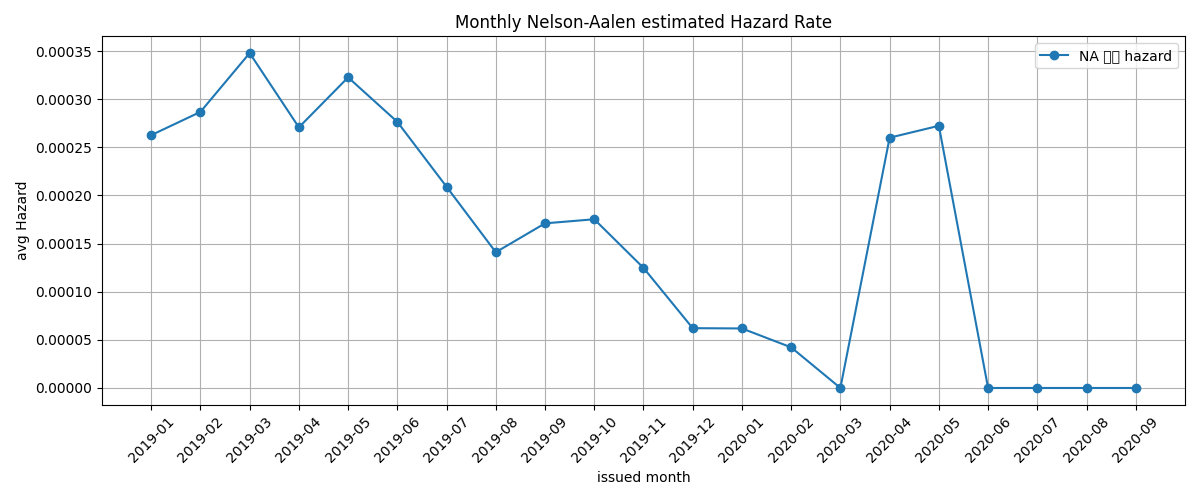
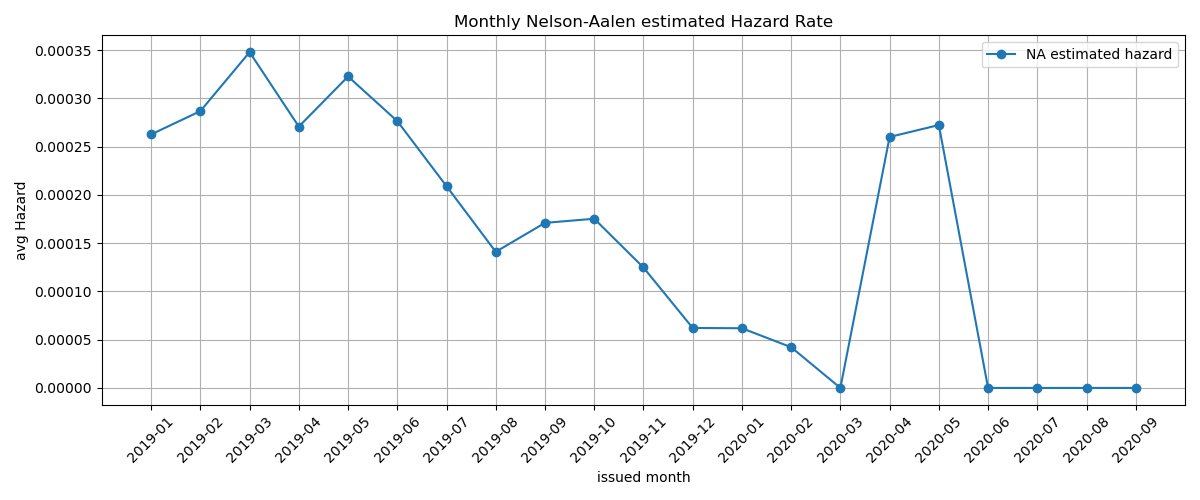
all features SHAP -> top 5 features SHAP

diff --git a/src/models/train_.py b/src/models/train_.py
@@ -1,17 +1,18 @@
-from lifelines import KaplanMeierFitter
 import numpy as np
 import pandas as pd
 from lifelines import NelsonAalenFitter
 import warnings
 import pandas as pd
 from sksurv.ensemble import RandomSurvivalForest
-from sksurv.metrics import concordance_index_censored
 from sksurv.util import Surv
-
+from collections import Counter
+from sklearn.utils import resample
+import shap
+from sklearn.model_selection import train_test_split
 warnings.filterwarnings("ignore", category=UserWarning)
 
-DATA_PATH = "../../data/processed/lendingclub_features_for_rf.parquet"
-FEATURE_PATH = "../../data/processed/features_final_list_rf.csv"
+DATA_PATH = "data/processed/lendingclub_features_for_rf.parquet"
+FEATURE_PATH = "data/processed/features_final_list_rf.csv"
 
 # --------------------------------------------------
 # 1) 데이터 로드 & 필터
@@ -142,32 +143,29 @@ print("✅ NA 기반 월별 hazard 추정 완료")
 # --------------------------------------------------
 # 5) Random Survival Forest 모델 학습 & 평가 (covid_exposure 그룹별)
 # --------------------------------------------------
-
 print("▶ 훈련 가능 데이터 현황:")
 print(f"- 총 행 수: {len(df)}")
 print(f"- issue_d ≥ 2019-05-01: {len(df[df['issue_d'] >= '2015-01-01'])}")
-print(f"- covid_exposure=0: {len(df[df['covid_exposure']==0])}")
-
-# Removed the original loop over "early" and "late" subgroups for model training and SHAP calculation
-
-from sklearn.utils import resample
-import shap
-
 print("\n🔍 전체 데이터 기반 SHAP 분석")
 print(f"X shape: {X.shape}, df[['T', 'E']] shape: {df[['T', 'E']].shape}")
+
 shap_runs = []
-from collections import Counter
+top_idx_list = []
+
 for i in range(10):  # bootstrap iterations
     X_bs, y_bs = resample(X, df[["T", "E"]], replace=True, random_state=42 + i)
     y_surv_bs = Surv.from_arrays(event=y_bs["E"].astype(bool), time=y_bs["T"])
-    rsf = RandomSurvivalForest(n_estimators=100, min_samples_split=10,
-                               min_samples_leaf=15, max_features="sqrt",
-                               n_jobs=-1, random_state=42 + i)
-    rsf.fit(X_bs, y_surv_bs)
+    rsf = RandomSurvivalForest(
+        n_estimators=100,
+        min_samples_split=10,
+        min_samples_leaf=15,
+        max_features="sqrt",
+        n_jobs=-1,
+        random_state=42 + i
+    )
+    rsf.fit(X_bs.values, y_surv_bs)
     print(f"✅ 부트스트랩 {i+1}/10 학습 완료")
     shap_runs.append(rsf.feature_importances_)
-    if i == 0:
-        top_idx_list = []
     top_idx = np.argsort(rsf.feature_importances_)[::-1][:5]
     top_idx_list.extend(top_idx)
 
@@ -175,20 +173,21 @@ top_5_idx = [item[0] for item in Counter(top_idx_list).most_common(5)]
 top_5_features = [features[i] for i in top_5_idx]
 print(f"🔝 전체 기준 Top 5 features:", top_5_features)
 
-rsf_final = RandomSurvivalForest(n_estimators=100, min_samples_split=10,
-                                 min_samples_leaf=15, max_features="sqrt",
-                                 n_jobs=-1, random_state=999)
 y_final = Surv.from_arrays(event=df["E"].astype(bool), time=df["T"])
-rsf_final.fit(X, y_final)
-print("✅ 최종 RSF 학습 완료")
+rsf_shap = RandomSurvivalForest(
+    n_estimators=30,
+    min_samples_split=10,
+    min_samples_leaf=15,
+    max_features="sqrt",
+    n_jobs=-1,
+    random_state=123
+)
+rsf_shap.fit(X[top_5_features].values, y_final)
+print("✅ 최종 SHAP용 RSF 학습 완료")
 
 
-    # Restrict X to top 5 features for SHAP computation
+# Restrict X to top 5 features for SHAP computation
 X_top5 = X[top_5_features].copy()
-
-# ▼▼▼ SHAP 계산 최적화를 위한 다운샘플링 (E 비율 유지) ▼▼▼
-from sklearn.model_selection import train_test_split
-
 X_top5["T"] = df["T"]
 X_top5["E"] = df["E"]
 
@@ -205,10 +204,9 @@ y_top5_sampled = Surv.from_arrays(
     time=X_top5_sampled["T"]
 )
 
-# Drop T, E from features for SHAP
 X_top5_sampled = X_top5_sampled.drop(columns=["T", "E"])
 
-explainer = shap.TreeExplainer(rsf_final)
+explainer = shap.TreeExplainer(rsf_shap)
 shap_values = explainer.shap_values(X_top5_sampled)
 print("✅ SHAP 계산 완료 (샘플 20,000건 기준)")
 
@@ -234,9 +232,9 @@ monthly_df = top_features_by_month["all"]
 plt.figure(figsize=(12, 6))
 for col in monthly_df.columns:
     sns.lineplot(data=monthly_df[col], label=col)
-plt.title(f"월별 SHAP 평균값 추이")
+plt.title(f"Monthly SHAP average")
 plt.xlabel("issue_month")
-plt.ylabel("평균 SHAP 값")
+plt.ylabel("Average SHAP value")
 plt.legend()
 plt.xticks(rotation=45)
 plt.tight_layout()
@@ -247,8 +245,8 @@ mean_abs = monthly_df.abs().sum()
 mean_abs = mean_abs / mean_abs.sum()  # Normalize to sum=1
 plt.figure(figsize=(6, 4))
 sns.barplot(x=mean_abs.values, y=mean_abs.index)
-plt.title(f"Top 5 변수 SHAP 비중")
-plt.xlabel("SHAP 비중")
-plt.ylabel("변수명")
+plt.title(f"Top 5 features SHAP importance")
+plt.xlabel("SHAP importance")
+plt.ylabel("feature")
 plt.tight_layout()
 plt.show()

diff --git a/src/data/generate_features_list.py b/src/data/generate_features_list.py
@@ -4,7 +4,7 @@ def main():
     # 전처리된 feature 파일 불러오기
     # df = pd.read_csv('../../data/processed/lendingclub_features_for_lightgbm.csv')
     # df = pd.read_csv('../../data/processed/lendingclub_features_for_linear.csv')
-    df = pd.read_parquet('../../data/processed/lendingclub_features_for_rf.parquet')
+    df = pd.read_parquet('data/processed/lendingclub_features_for_rf.parquet')
 
     # 제외할 컬럼 리스트
     exclude_cols = [
@@ -72,7 +72,7 @@ def main():
 
     # 저장
     features_df = pd.DataFrame({'feature': feature_list})
-    features_df.to_csv('../../data/processed/features_final_list_rf.csv', index=False)
+    features_df.to_csv('data/processed/features_final_list_rf.csv', index=False)
 
     print(f"✅ features_final_list_rf.csv 생성 완료! ({len(feature_list)}개 변수)")
 

diff --git a/src/data/build_features_lightgbm.py b/src/data/build_features_lightgbm.py
@@ -4,7 +4,7 @@ import numpy as np
 
 def main():
     # 1) interim 데이터 불러오기
-    df = pd.read_csv('../../data/interim/lendingclub_survival.csv')
+    df = pd.read_csv('data/interim/lendingclub_survival.csv')
 
     # 2) 숫자형으로 변환해야 하는 컬럼 먼저 처리
     df['term'] = df['term'].str.extract(r'(\d+)').astype(float)
@@ -100,7 +100,7 @@ def main():
     # 6) 저장
     if 'id' in df.columns:
         df.drop(columns=['id'], inplace=True)
-    df.to_parquet('../../data/processed/lendingclub_features_for_rf.parquet', index=False, engine='pyarrow')
+    df.to_parquet('data/processed/lendingclub_features_for_rf.parquet', index=False, engine='pyarrow')
     print('✅ 파일 저장 완료')
     
 if __name__ == "__main__":

diff --git a/src/data/make_dataset.py b/src/data/make_dataset.py
@@ -4,7 +4,7 @@ import numpy as np
 
 def main():
     # 1) 파일 읽기
-    df = pd.read_csv('../../data/raw/lendingclub.csv', low_memory = False) 
+    df = pd.read_csv('data/raw/lendingclub.csv', low_memory = False) 
     print(df.head(3))
    
     
@@ -42,7 +42,7 @@ def main():
     print(f"전처리 후 데이터 크기: {df.shape}")
 
     # 3) inim 폴더에 저장
-    out_path = Path('../../data/interim/lendingclub_survival.csv')
+    out_path = Path('data/interim/lendingclub_survival.csv')
     out_path.parent.mkdir(parents = True, exist_ok = True)
     df.to_csv(out_path, index = False)
     print(f"✅ 저장 완료: {out_path}")
